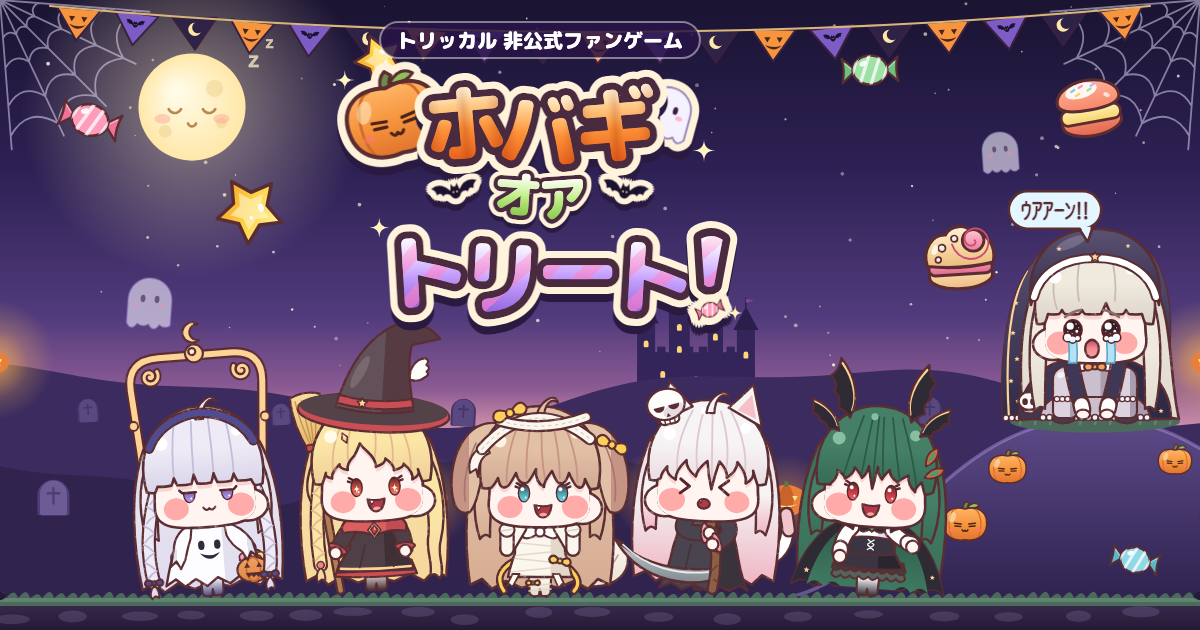
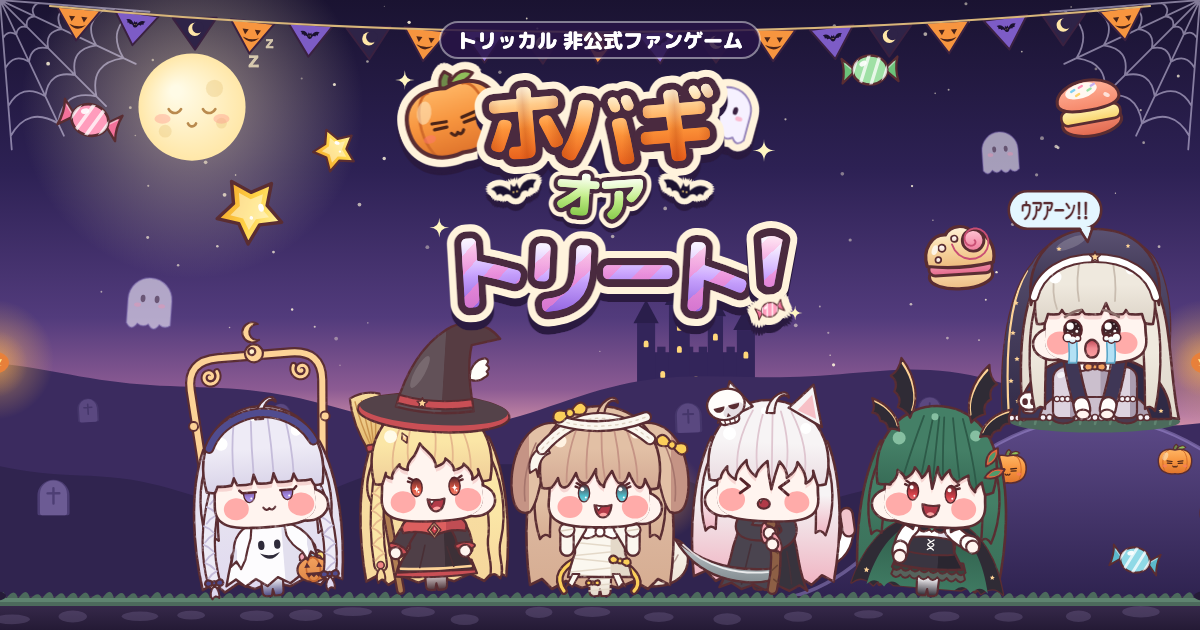
サムネイルとリンクの絵で、タイトルとキャラを中央にそろえた

diff --git a/src/dev/art.ts b/src/dev/art.ts
@@ -24,16 +24,16 @@ const ART = og
   ? {
       ground: H - 34,
       charR: 50,
-      charX: [204, 372, 540, 708, 876],
+      charX: [264, 432, 600, 768, 936],
       spiki: { x: W - 105, y: H * 0.5, r: 50 },
-      title: { x: W * 0.45, pill: 22, top: 62, s: 82 },
+      title: { x: W / 2, pill: 22, top: 62, s: 82 },
       items: [
         ['candy', 90, 120, 30],
         ['star', 250, 210, 34],
         ['shucaron', 960, 260, 36],
         ['mokaron', 1090, 110, 34],
         ['candy', 870, 70, 28],
-        ['star', 380, 60, 26],
+        ['star', 335, 150, 22],
         ['candy', 1135, 560, 24],
       ] as [Kind, number, number, number][],
       floor: [] as [Kind, number, number, number][],
@@ -41,9 +41,9 @@ const ART = og
   : {
       ground: 426,
       charR: 42,
-      charX: [78, 190, 302, 414, 526],
-      spiki: { x: 700, y: 236, r: 36 },
-      title: { x: 336, pill: 8, top: 42, s: 56 },
+      charX: [188, 294, 400, 506, 612],
+      spiki: { x: 730, y: 226, r: 34 },
+      title: { x: W / 2, pill: 8, top: 42, s: 56 },
       items: [
         ['candy', 36, 92, 20],
         ['star', 640, 40, 22],
